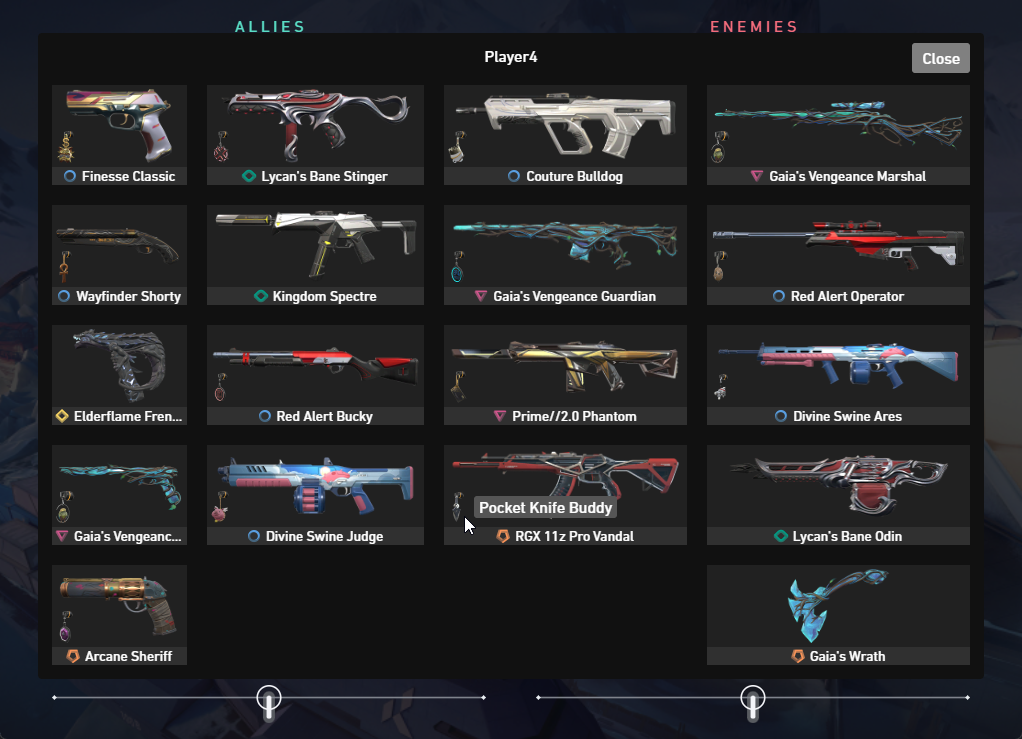
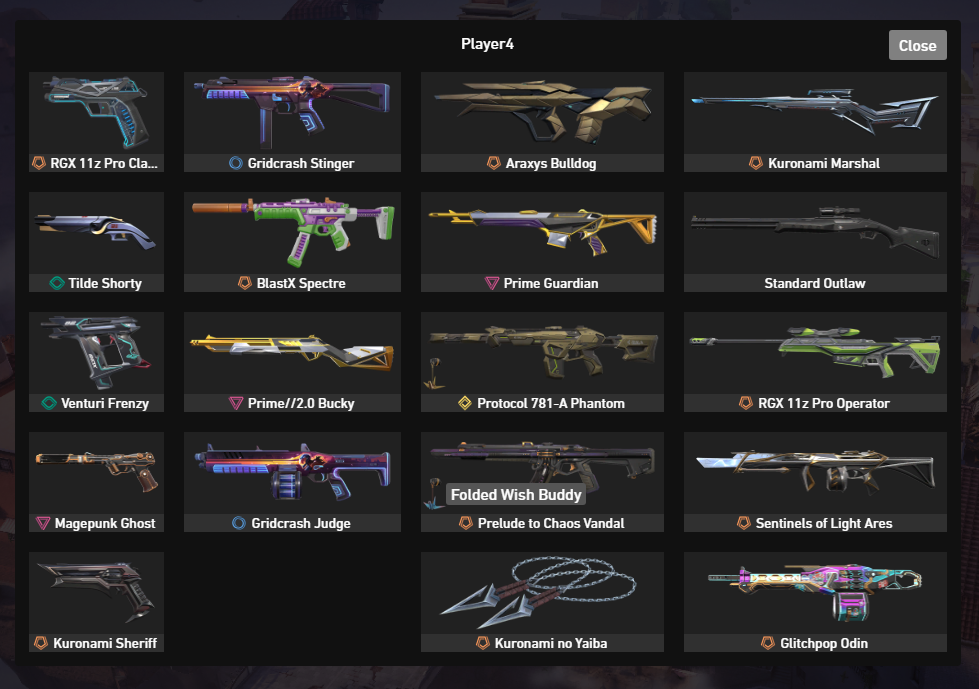
Added outlaw to loadout view (#7)
* shifted 4th column index
* added outlaw gun, and changed melee index
* replaced loadout image with one containing outlaw

diff --git a/frontend/src/components/InGame.svelte b/frontend/src/components/InGame.svelte
@@ -94,12 +94,13 @@
 			"4ade7faa-4cf1-8376-95ef-39884480959b": "guardian",
 			"ee8e8d15-496b-07ac-e5f6-8fae5d4c7b1a": "phantom",
 			"9c82e19d-4575-0200-1a81-3eacf00cf872": "vandal",
+			"2f59173c-4bed-b6c3-2191-dea9b58be9c7": "melee",
 
 			"c4883e50-4494-202c-3ec3-6b8a9284f00b": "marshal",
+			"5f0aaf7a-4289-3998-d5ff-eb9a5cf7ef5c": "outlaw",
 			"a03b24d3-4319-996d-0f8c-94bbfba1dfc7": "operator",
 			"55d8a0f4-4274-ca67-fe2c-06ab45efdf58": "ares",
 			"63e6c2b6-4a8e-869c-3d4c-e38355226584": "odin",
-			"2f59173c-4bed-b6c3-2191-dea9b58be9c7": "melee",
 		}
 
 		const playerLoadouts = loadouts.map((playerLoadout) => {

diff --git a/frontend/src/components/Loadout.svelte b/frontend/src/components/Loadout.svelte
@@ -101,7 +101,7 @@
         grid-column: 3;
     }
 
-    .gunContainer:nth-child(n+14) {
+    .gunContainer:nth-child(n+15) {
         grid-column: 4;
     }
 
